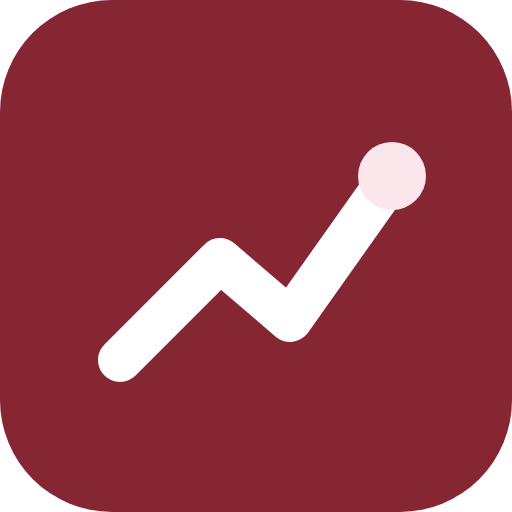
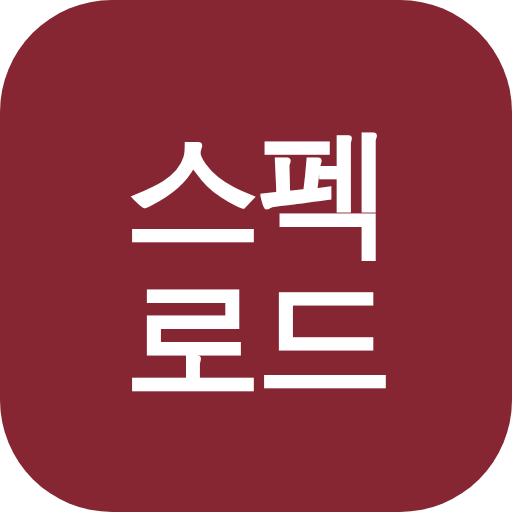
UI ①: 시작(로딩) 화면 — 서버가 늦을 때(1.5초) 서비스 워커가 저장해 둔 크림슨 시작 화면을 보여 주고 깨어나면 같은 주소 다시 불러옴, 앱 아이콘·manifest 색 정리, 캐시 v15
Claude-Session: https://claude.ai/code/session_016mSzT82Cpsf6jfgD7kXXrW

Changed region(s): [[0.1875, 0.25, 0.8438, 0.7812]]

diff --git a/spec-platform/app/static/splash.html b/spec-platform/app/static/splash.html
@@ -1,0 +1,71 @@
+<!doctype html>
+<html lang="ko">
+<head>
+<meta charset="utf-8">
+<meta name="viewport" content="width=device-width, initial-scale=1, viewport-fit=cover">
+<meta name="theme-color" content="#862633">
+<title>스펙로드</title>
+<!-- 시작(로딩) 화면: 서버가 잠들어 있어 응답이 늦을 때 서비스 워커(sw.js)가 폰에 저장해 둔 이 파일을 대신 보여 줌.
+     폰에 저장되는 파일이라 개인 정보는 절대 넣지 않음. 다른 주소로 보내지 않고, 서버가 깨어나면 같은 주소를 다시 불러옴. -->
+<style>
+  :root { --brand: #862633; --brand-deep: #5e1a23; --on: #ffffff; --on-soft: rgba(255, 255, 255, .72); }
+  * { box-sizing: border-box; }
+  html, body { margin: 0; height: 100%; }
+  body {
+    min-height: 100dvh; background: var(--brand); color: var(--on); overflow: hidden;
+    font-family: "Noto Sans KR", -apple-system, "Apple SD Gothic Neo", "Malgun Gothic", sans-serif;
+    display: grid; grid-template-rows: auto 1fr auto;
+    padding: max(2.4rem, env(safe-area-inset-top)) max(1.6rem, env(safe-area-inset-right)) max(1.6rem, env(safe-area-inset-bottom)) max(1.6rem, env(safe-area-inset-left));
+    word-break: keep-all;
+  }
+  .kicker { margin: 0; font-size: .82rem; font-weight: 500; letter-spacing: .02em; color: var(--on-soft); }
+  h1 { margin: 1rem 0 0; font-size: clamp(1.8rem, 8.4vw, 2.7rem); font-weight: 800; line-height: 1.25; letter-spacing: -0.04em; }
+  h1 span { display: block; white-space: nowrap; }  /* 문구는 정한 3줄 그대로 (폭이 좁아도 줄이 더 꺾이지 않게) */
+  .road { position: fixed; top: 18%; right: -8px; width: 72px; height: 58%; }   /* 오른쪽 가장자리: 1→4학년 점과 선 */
+  .foot { display: flex; align-items: flex-end; justify-content: space-between; gap: 1rem; }
+  .mark b { display: block; font-size: 1.5rem; font-weight: 800; letter-spacing: -0.04em; }
+  .mark span { font-size: .72rem; color: var(--on-soft); }
+  .status { position: fixed; left: 0; right: 0; bottom: max(5.6rem, calc(env(safe-area-inset-bottom) + 5rem)); text-align: center; font-size: .82rem; color: var(--on-soft); padding: 0 1.6rem; }
+  .bar { display: block; width: 120px; height: 3px; margin: .7rem auto 0; border-radius: 2px; background: rgba(255, 255, 255, .25); overflow: hidden; position: relative; }
+  .bar i { position: absolute; top: 0; bottom: 0; width: 40%; background: var(--on); border-radius: 2px; animation: slide 1.2s ease-in-out infinite; }
+  @keyframes slide { from { left: -40%; } to { left: 100%; } }
+  body.stalled .bar { display: none; }
+  @media (prefers-reduced-motion: reduce) { .bar i { animation: none; left: 30%; } }
+</style>
+</head>
+<body id="splash">
+  <p class="kicker">교내 프로그램 · 대외활동 · 인턴·채용</p>
+  <h1><span>학교 프로그램부터</span><span>인턴·채용까지</span><span>한 번에</span></h1>
+  <svg class="road" viewBox="0 0 72 400" preserveAspectRatio="xMidYMid meet" aria-hidden="true">
+    <path d="M40 10 C 10 110, 62 170, 34 260 S 46 360, 40 392" fill="none" stroke="rgba(255,255,255,.35)" stroke-width="3" stroke-linecap="round"/>
+    <circle cx="40" cy="14" r="9" fill="#ffffff"/>
+    <circle cx="27" cy="120" r="9" fill="rgba(255,255,255,.75)"/>
+    <circle cx="44" cy="250" r="9" fill="rgba(255,255,255,.55)"/>
+    <circle cx="40" cy="386" r="9" fill="rgba(255,255,255,.35)"/>
+  </svg>
+  <div class="foot">
+    <div class="mark"><b>스펙로드</b><span>비공식 학생 프로젝트</span></div>
+  </div>
+  <p class="status" role="status"><span id="msg">서버를 깨우는 중이에요. 최대 1분쯤 걸릴 수 있어요</span><span class="bar"><i></i></span></p>
+  <script>
+    // 2초마다 서버 상태(/healthz)를 확인하고, 깨어나면 지금 주소를 다시 불러옴(다른 주소로 보내지 않음).
+    // 90초가 지나도 안 깨어나면 안내를 바꾸고 멈춤(무한 재시도 금지).
+    (function () {
+      var msg = document.getElementById("msg"), stopped = false;
+      function stop() {
+        stopped = true;
+        msg.textContent = "연결이 지연되고 있어요. 잠시 후 다시 열어 주세요";
+        document.body.classList.add("stalled");
+      }
+      function check() {
+        if (stopped) return;
+        fetch("/healthz", { cache: "no-store" })
+          .then(function (r) { if (stopped) return; if (r.ok) location.reload(); else setTimeout(check, 2000); })
+          .catch(function () { if (!stopped) setTimeout(check, 2000); });
+      }
+      setTimeout(stop, 90000);
+      setTimeout(check, 2000);
+    })();
+  </script>
+</body>
+</html>

diff --git a/spec-platform/app/static/sw.js b/spec-platform/app/static/sw.js
@@ -1,8 +1,19 @@
 // 서비스 워커: 앱 뒤에서 돌아가는 작은 비서.
-// 화면 뼈대(CSS, 아이콘)는 폰에 저장해 두고, 데이터 페이지는 항상 서버에서 새로 받음.
+// 화면 뼈대(CSS, 아이콘, 시작 화면)는 폰에 저장해 두고, 데이터 페이지는 항상 서버에서 새로 받음.
 // 인터넷이 끊기면 '오프라인' 안내를 보여 줌.
-const CACHE = "specroad-v14";
-const SHELL = ["/static/style.css", "/static/progress.js", "/static/icon.svg", "/static/icon-192.png"];
+// 서버가 잠들어 있어 화면 이동이 SPLASH_AFTER_MS보다 오래 걸리면, 저장해 둔 시작 화면(/static/splash.html)을 대신 보여 줌.
+//   - 실제로 기다릴 때만 보임(빠른 페이지는 그대로). GET 화면 이동에만 적용(POST·폼 제출·/api·/static·/healthz 제외).
+//   - 시작 화면은 /healthz를 확인하다가 서버가 깨어나면 같은 주소를 다시 불러옴.
+const CACHE = "specroad-v15";
+const SHELL = ["/static/style.css", "/static/progress.js", "/static/icon.svg", "/static/icon-192.png", "/static/splash.html"];
+const SPLASH_AFTER_MS = 1500;
+const AWAKE_GRACE_MS = 30000;  // 서버가 깨어 있는 것을 방금 확인했으면 이 시간 동안은 시작 화면을 띄우지 않음(다시 불러올 때 시작 화면이 반복되는 것 방지)
+let lastAwake = 0;
+
+const offline = () => new Response(
+  '<meta charset="utf-8"><meta name="viewport" content="width=device-width"><p style="font-family:sans-serif;padding:2rem">인터넷 연결이 끊겼습니다. 연결 후 다시 시도해 주세요.</p>',
+  { headers: { "Content-Type": "text/html; charset=utf-8" } }
+);
 
 self.addEventListener("install", (e) => {
   e.waitUntil(caches.open(CACHE).then((c) => c.addAll(SHELL)));
@@ -14,17 +25,41 @@ self.addEventListener("activate", (e) => {
   self.clients.claim();
 });
 
+// 화면 이동: 서버 응답과 타이머를 경주시켜, 타이머가 먼저 끝나면 시작 화면을 보여 줌
+function navigateWithSplash(req) {
+  const network = fetch(req);
+  if (Date.now() - lastAwake < AWAKE_GRACE_MS) {
+    return network.then((r) => { lastAwake = Date.now(); return r; }).catch(offline);
+  }
+  return new Promise((resolve) => {
+    let done = false;
+    network
+      .then((r) => { if (!done) { done = true; lastAwake = Date.now(); resolve(r); } })
+      .catch(() => { if (!done) { done = true; resolve(offline()); } });
+    setTimeout(() => {
+      if (done) return;
+      caches.match("/static/splash.html").then((hit) => {
+        if (done || !hit) return;  // 시작 화면이 저장돼 있지 않으면 그냥 서버 응답을 기다림
+        done = true;
+        resolve(hit);
+      });
+    }, SPLASH_AFTER_MS);
+  });
+}
+
 self.addEventListener("fetch", (e) => {
   const req = e.request;
-  if (req.method !== "GET") return;
-  if (new URL(req.url).pathname.startsWith("/static/")) {
+  if (req.method !== "GET") return;  // POST(로그인·폼 제출)는 건드리지 않음
+  const path = new URL(req.url).pathname;
+  if (path.startsWith("/static/")) {
     e.respondWith(caches.match(req).then((hit) => hit || fetch(req)));
     return;
   }
-  if (req.mode === "navigate") {
-    e.respondWith(fetch(req).catch(() => new Response(
-      '<meta charset="utf-8"><meta name="viewport" content="width=device-width"><p style="font-family:sans-serif;padding:2rem">인터넷 연결이 끊겼습니다. 연결 후 다시 시도해 주세요.</p>',
-      { headers: { "Content-Type": "text/html; charset=utf-8" } }
-    )));
+  if (path === "/healthz") {  // 시작 화면이 서버를 확인하는 요청: 응답이 오면 '깨어 있음'으로 기록만 함
+    e.respondWith(fetch(req).then((r) => { if (r.ok) lastAwake = Date.now(); return r; }));
+    return;
+  }
+  if (req.mode === "navigate" && !path.startsWith("/api/")) {
+    e.respondWith(navigateWithSplash(req));
   }
 });

diff --git a/spec-platform/app/templates/base.html b/spec-platform/app/templates/base.html
@@ -7,7 +7,7 @@
   <title>{% block title %}스펙로드{% endblock %}</title>
   <link rel="manifest" href="/manifest.webmanifest">
   <link rel="icon" href="/static/icon.svg" type="image/svg+xml">
-  <link rel="apple-touch-icon" href="/static/icon-192.png">
+  <link rel="apple-touch-icon" href="/static/icon-maskable-512.png">
   <!-- 글꼴: 인터넷이 없으면 컴퓨터에 있는 글꼴로 대신 보임 -->
   <link rel="stylesheet" href="https://fonts.googleapis.com/css2?family=Noto+Sans+KR:wght@400;500;700;800&display=swap">
   <link rel="stylesheet" href="/static/style.css">

diff --git a/spec-platform/tests/test_ui.py b/spec-platform/tests/test_ui.py
@@ -1,0 +1,50 @@
+"""UI 개편: 시작(로딩) 화면·서비스 워커·앱 아이콘, 홈 화면"""
+import json
+import re
+from pathlib import Path
+
+from fastapi.testclient import TestClient
+
+from app.main import app
+
+STATIC = Path(__file__).resolve().parent.parent / "app" / "static"
+
+
+def test_splash_is_static_and_has_no_personal_data():
+    c = TestClient(app)
+    r = c.get("/static/splash.html")
+    assert r.status_code == 200 and 'id="splash"' in r.text
+    assert "스펙로드" in r.text and "비공식 학생 프로젝트" in r.text and "서버를 깨우는 중이에요" in r.text
+    # 개인 정보·템플릿 문법이 없는 순수 정적 파일 (폰에 저장되는 파일이므로)
+    assert "{{" not in r.text and "{%" not in r.text and "nickname" not in r.text
+    # 다른 주소로 보내지 않음: 같은 주소 다시 불러오기만
+    assert "location.reload()" in r.text
+    assert not re.search(r"location\.(href|assign|replace)|window\.open|\?next=", r.text)
+    assert "90000" in r.text and '"/healthz"' in r.text
+
+
+def test_service_worker_splash_rules():
+    sw = (STATIC / "sw.js").read_text()
+    m = re.search(r'const CACHE = "specroad-v(\d+)"', sw)
+    assert m and int(m.group(1)) >= 15
+    assert '"/static/splash.html"' in sw.split("const SHELL")[1].split("];")[0]  # 미리 저장 목록에 있음
+    assert "SPLASH_AFTER_MS = 1500" in sw
+    assert 'if (req.method !== "GET") return;' in sw                              # POST(로그인·폼 제출)는 가로채지 않음
+    assert 'req.mode === "navigate" && !path.startsWith("/api/")' in sw
+    assert 'path.startsWith("/static/")' in sw and 'path === "/healthz"' in sw   # 정적 파일·서버 확인 요청에는 시작 화면 없음
+
+
+def test_manifest_matches_splash_color():
+    m = json.loads((STATIC / "manifest.webmanifest").read_text())
+    splash = (STATIC / "splash.html").read_text()
+    assert m["background_color"].lower() == "#862633" and "background: var(--brand)" in splash and "--brand: #862633" in splash
+    purposes = {i.get("purpose", "any") for i in m["icons"]}
+    assert "maskable" in purposes
+    for i in m["icons"]:
+        assert (STATIC / Path(i["src"]).name).exists(), i["src"]
+    assert 'href="/static/icon-maskable-512.png"' in TestClient(app).get("/").text   # 아이폰 홈 화면 아이콘
+
+
+def test_requirements_unchanged():
+    req = (Path(__file__).resolve().parent.parent / "requirements.txt").read_text()
+    assert "reportlab" not in req and "fpdf" not in req
